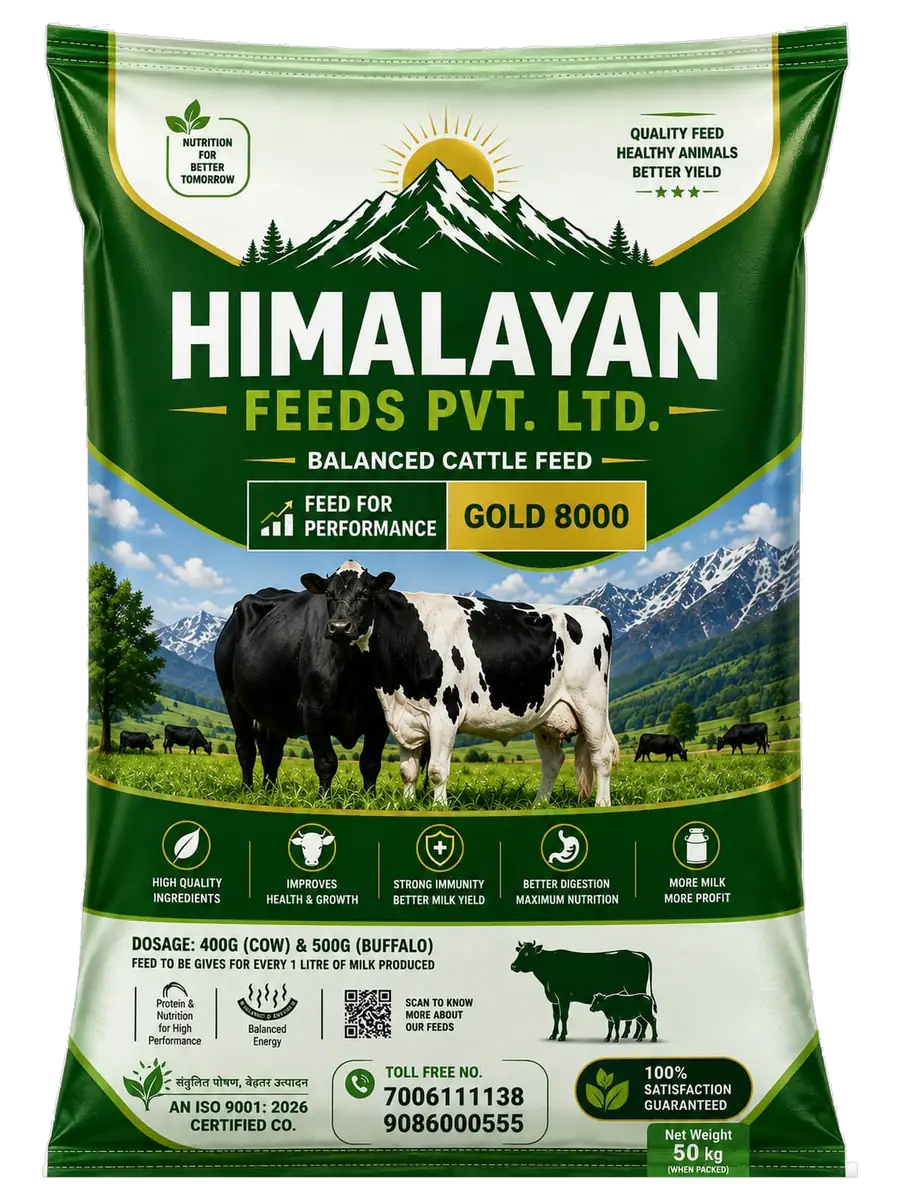
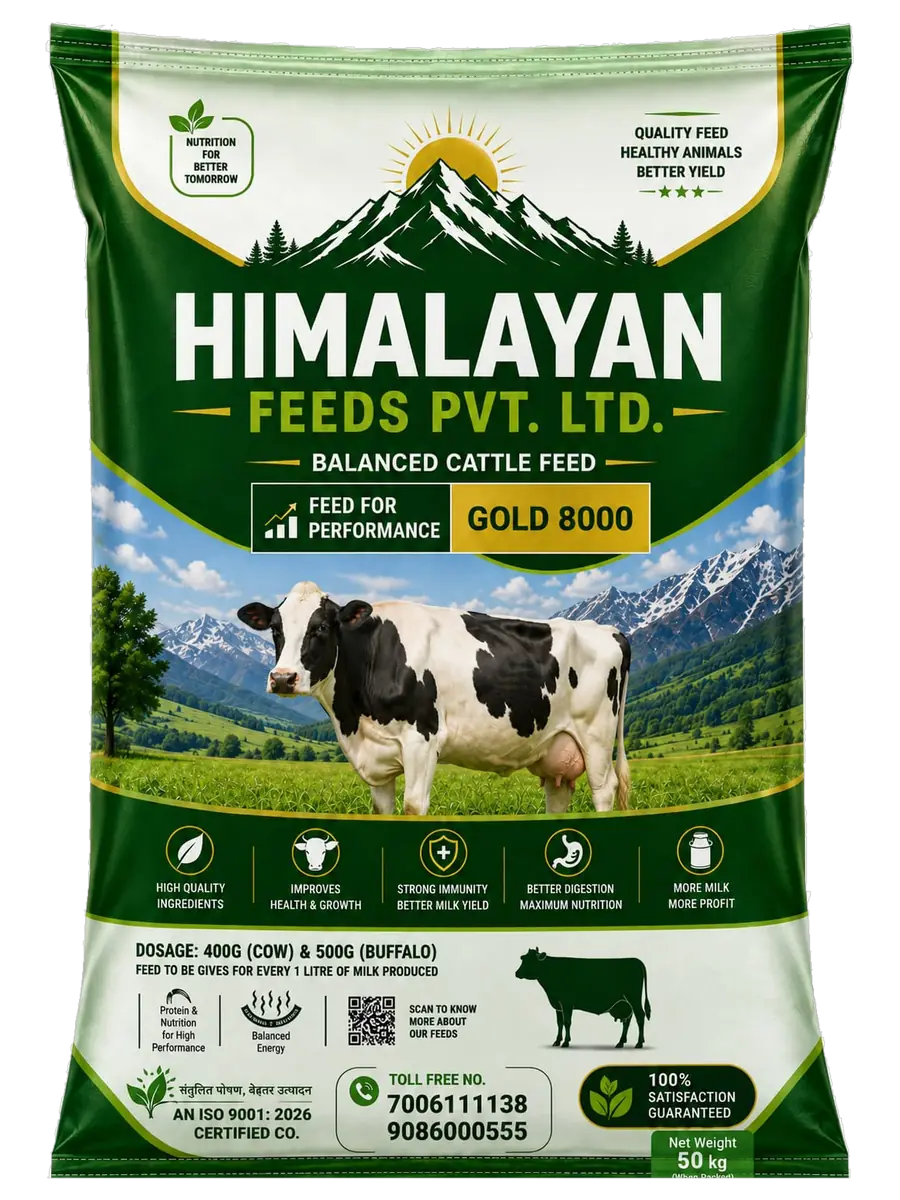
Name products brand-first and swap in the new bag artwork
Products now render as "Himalayan Calf Starter" rather than "Calf Starter".
The prefix is applied at display time by productName(), so the catalogue
rows, the left-hand nav, the About index and the WhatsApp quote subject all
derive from one place. Stored `name` stays the printed name — the sack, not
the screen — so there is still one record of what a dealer is holding.

Artwork: the hF_products drop replaces five cattle pack shots (Calf Starter,
Heifer, Transition Mix, Gold 8000, 10000) and adds two products that were not
in the catalogue at all:

  8000   a distinct bag from GOLD 8000 — same design, different grade badge
  8000+  replaces the orange GOLD 8000+; the live bag is green and prints
         "8000+" with no "GOLD", so the product follows the sack

The superseded orange bag moves to source-assets/superseded/. D. MASH @8000
came with the drop but is unused: it is the older template, so swapping it in
would have walked the range backwards. Calf Grower is now the only cattle bag
still on the old design — no master was supplied.

Heifer's pack size is no longer "On request". The earlier render was cropped
above the net-weight panel; the new photograph shows 50 kg.

Trans-20 Mix is renamed Transition Mix on the client's instruction. It is the
one product not named after its bag — the sack prints "TRANSITION DRY" above a
"TRANS - 20 Mix" badge and we show neither exactly — so the printed name is
kept in the alt text and the deviation is flagged in site.ts.
[…]

Changed region(s): [[0.0311, 0.0, 0.9644, 0.9867]]

diff --git a/lib/site.ts b/lib/site.ts
@@ -202,10 +202,15 @@ export const SOCIALS = [
 
    Cattle is grouped by what the feed DOES, not by species. The client asked
    for a cow/buffalo split; the artwork does not support one. Every bag in the
-   current range is printed "BALANCED CATTLE FEED", pictures a buffalo AND a
-   cow, and is dosed "400G (COW) & 500G (BUFFALO)" — so a buffalo sub-category
-   would hold all seven bags and a cow sub-category would hold none. Buffalo
-   suitability is carried on each product instead, which is what the sack says.
+   range is printed "BALANCED CATTLE FEED" and dosed "400G (COW) & 500G
+   (BUFFALO)" — so a buffalo sub-category would hold every bag and a cow
+   sub-category would hold none. Buffalo suitability is carried on each product
+   instead, which is what the sack says.
+
+   ⚠ The latest artwork (hF_products) drops the buffalo from the photograph —
+   the earlier renders pictured a buffalo beside a cow, these show cows only.
+   The printed dosage line still covers both, so the reasoning above holds, but
+   a farmer buying for buffalo now sees no buffalo on the bag. Worth raising.
 
    The one exception is the fifth band, Sheep & Goat Feed. It is not a cattle
    feed and does not pretend to be — it holds the three D. Mash bags, which are
@@ -249,14 +254,21 @@ export const SOCIALS = [
    Thirteen entries carry a real cut-out photograph of the client's own bag,
    and each one is NAMED AFTER THE BAG. A dealer reads the printed name, so a
    catalogue that calls it something else is a catalogue they cannot order
-   from. `name`, `slug` and the image filename all follow the artwork:
+   from. `name`, `slug` and the image filename all follow the artwork.
+
+   ⚠ `name` is the PRINTED name and is not what the site displays. Products are
+   shown brand-first — "Himalayan Gold 8000" — via `productName()` further down
+   this file. The table below is the sack, not the screen; keep it that way so
+   there is always one record of what a dealer is actually holding.
 
      Calf Starter ....... calf-starter ..... CALF STARTER      50 kg
      Calf Grower ........ calf-grower ...... CALF GROWER       50 kg
-     Heifer ............. heifer ........... HEIFER            — (see below)
-     Trans-20 Mix ....... trans-20-mix ..... TRANS - 20 Mix    50 kg
+     Heifer ............. heifer ........... HEIFER            50 kg
+     Transition Mix ..... transition-mix ... TRANSITION DRY /
+                                            TRANS - 20 Mix    50 kg  ⚠ renamed
+     8000 ............... 8000 ............. 8000              50 kg
      Gold 8000 .......... gold-8000 ........ GOLD 8000         50 kg
-     Gold 8000+ ......... gold-8000-plus ... GOLD 8000+        50 kg
+     8000+ .............. 8000-plus ........ 8000+             50 kg
      10000 .............. 10000 ............ 10000             50 kg
      Pre Starter ........ pre-starter ...... PRE STARTER       25 kg
      Starter ............ starter .......... STARTER           25 kg
@@ -270,8 +282,32 @@ export const SOCIALS = [
    `packSizes` is read off the NET WEIGHT panel of the bag in the photograph.
    It is the client's own artwork, not a guess, but it records the pack that
    was photographed — if a size is also sold in another format, this field
-   needs widening. HEIFER is null because the supplied render is cropped above
-   the net-weight panel, not because the pack is unknown to the client.
+   needs widening.
+
+   ---- THE hF_products DROP ----
+   A later set of eight photographs replaced most of the cattle shots. Five
+   were straight swaps (Calf Starter, Heifer, Transition Mix, Gold 8000, 10000)
+   and HEIFER finally arrived uncropped, which is where its 50 kg came from.
+
+   Two were NOT in the catalogue at all and were added on the client's
+   instruction: 8000, which is a distinct bag from GOLD 8000 — same design,
+   different grade badge — and 8000+, which replaced the orange GOLD 8000+.
+   Note that rename: the live bag is green and prints "8000+" with no "GOLD",
+   so the product was renamed to match the sack rather than the other way
+   round. The orange bag is in source-assets/superseded/.
+
+   The eighth, D. MASH @8000, was left unused: it is the OLDER template — big
+   product name, no wordmark, no "Feed for Performance" badge — so swapping it
+   in would have walked the range backwards. It is in source-assets/hf_products
+   with the rest of the drop.
+
+   ⚠ 8000+ is the only pack shot cut from a photograph of a physical bag on a
+   concrete floor rather than a studio render. A border-seeded flood fill
+   cannot separate it — the floor runs as a tonal gradient and the bag's
+   shadowed green edges sit closer to the floor than the floor's own range — so
+   it was cut by modelling the floor colour per row and then requiring
+   connectivity to the border. If it is ever re-cut, do not reach for the
+   flood fill; it will eat the bag.
 
    ⚠ The new bags changed two pack sizes: CALF STARTER and CALF GROWER are
    printed 50 kg, where the previous generation was 25 kg. Confirm which is
@@ -376,6 +412,22 @@ export type Product = {
   packSizes: string | null;
   image: string;
   imageAlt: string;
+  /** True where `image` is the illustrated placeholder rather than a
+      photograph of the actual sack. The row badges the frame so a visitor
+      reads "we haven't shot this yet" instead of "this is what it looks
+      like".
+
+      ⚠ This is a statement about the PHOTOGRAPH, not about availability —
+      hence the badge wording "Photo coming soon". Do not reuse this flag to
+      mean the product is unreleased; that is `Category.status` at range
+      level, and at product level it would need its own field, because these
+      three may well be selling today. See docs/product-catalogue-spec.md
+      §2.6 — an unconfirmed fact is left visibly open, never guessed at.
+
+      Set it explicitly rather than sniffing for `.svg`: the flag has to
+      survive a placeholder being redrawn as a PNG, and it is the thing the
+      client is actually being asked to resolve. */
+  photoPending?: boolean;
 };
 
 export type Category = {
@@ -523,14 +575,21 @@ export const CATEGORIES: Category[] = [
         highlights: ["Improves health & growth", "High quality ingredients", "Better digestion"],
         suitableFor: ["Maiden heifers", "Replacement stock", "Cow & buffalo herds"],
         form: null,
-        /* The supplied render is cropped above the net-weight panel. */
-        packSizes: null,
+        /* Was null while the only render was cropped above the net-weight
+           panel. The hF_products artwork shows the full bag: 50 kg. */
+        packSizes: "50 kg",
         image: "/images/products/heifer.webp",
         imageAlt: "Himalayan Feeds Heifer — balanced cattle feed bag",
       },
       {
-        slug: "trans-20-mix",
-        name: "Trans-20 Mix",
+        /* ⚠ The one product NOT named after its bag. The sack prints
+           "TRANSITION DRY" as a headline with "TRANS - 20 Mix" in the badge
+           below it; the client asked for "Transition Mix", which is neither
+           string exactly. Their call — they know what a dealer orders it by —
+           but if a dealer ever searches the site for "Trans-20" and finds
+           nothing, this is why. */
+        slug: "transition-mix",
+        name: "Transition Mix",
         group: "transition",
         stage: "Transition",
         summary: "Around calving — the few weeks that decide the whole lactation.",
@@ -540,17 +599,37 @@ export const CATEGORIES: Category[] = [
         suitableFor: ["Dry & freshly calved cows", "Buffalo at calving", "Dairy herds"],
         form: "Mix",
         packSizes: "50 kg",
-        image: "/images/products/trans-20-mix.webp",
-        imageAlt: "Himalayan Feeds Trans-20 Mix — balanced cattle feed, 50 kg bag",
+        image: "/images/products/transition-mix.webp",
+        imageAlt: "Himalayan Feeds Transition Dry, Trans-20 Mix — balanced cattle feed, 50 kg bag",
+      },
+      {
+        /* ⚠ LADDER ORDER IS AN ASSUMPTION. The four milking bags are printed
+           8000, GOLD 8000, 8000+ and 10000, and none of them says where it sits
+           relative to the others. They are listed cheapest-sounding first, with
+           GOLD read as a premium of the 8000 grade. Confirm the real order — a
+           dealer selling "the next one up" off this page needs it right. */
+        slug: "8000",
+        name: "8000",
+        group: "milking",
+        stage: "In milk",
+        summary: "The everyday milking ration — where the ladder starts.",
+        description:
+          "The working feed for a herd in steady production, fed against the milk actually in the churn: the bag sets the rate at 400 g per litre for a cow and 500 g for a buffalo. It is the grade most herds sit on for most of the lactation, and the base the rest of the range is measured from.",
+        highlights: ["High quality ingredients", "Better digestion", "More milk, more profit"],
+        suitableFor: ["Dairy cows in milk", "Buffalo in milk", "Mixed herds"],
+        form: null,
+        packSizes: "50 kg",
+        image: "/images/products/8000.webp",
+        imageAlt: "Himalayan Feeds 8000 — balanced cattle feed, 50 kg bag",
       },
       {
         slug: "gold-8000",
         name: "Gold 8000",
         group: "milking",
         stage: "In milk",
-        summary: "The everyday milking ration — where the ladder starts.",
+        summary: "The Gold grade, at the same feeding rate.",
         description:
-          "The working feed for a herd in steady production, fed against the milk actually in the churn: the bag sets the rate at 400 g per litre for a cow and 500 g for a buffalo. It is the grade most herds sit on for most of the lactation, and the one the two above it are measured against.",
+          "Fed on the same measure as 8000 — 400 g per litre for a cow, 500 g for a buffalo — for the same stage of the lactation. What separates the two is the formulation rather than the feeding, so ask us which suits your herd before you switch between them.",
         highlights: ["High quality ingredients", "More milk, more profit", "Better digestion"],
         suitableFor: ["Dairy cows in milk", "Buffalo in milk", "Mixed herds"],
         form: null,
@@ -559,19 +638,19 @@ export const CATEGORIES: Category[] = [
         imageAlt: "Himalayan Feeds Gold 8000 — balanced cattle feed, 50 kg bag",
       },
       {
-        slug: "gold-8000-plus",
-        name: "Gold 8000+",
+        slug: "8000-plus",
+        name: "8000+",
         group: "milking",
         stage: "Higher yield",
         summary: "One step up — for the animals pulling ahead of the herd.",
         description:
-          "Most herds have a group doing noticeably more than the rest, and feeding them the same grade as everyone else quietly costs you the difference. The step up from Gold 8000, for cows and buffalo whose output has moved beyond what the base grade is built to carry.",
+          "Most herds have a group doing noticeably more than the rest, and feeding them the same grade as everyone else quietly costs you the difference. The step up for cows and buffalo whose output has moved beyond what the base grade is built to carry.",
         highlights: ["Strong immunity, better milk yield", "More milk, more profit", "High quality ingredients"],
         suitableFor: ["Higher-yielding cows", "Higher-yielding buffalo"],
         form: null,
         packSizes: "50 kg",
-        image: "/images/products/gold-8000-plus.webp",
-        imageAlt: "Himalayan Feeds Gold 8000+ — balanced cattle feed, 50 kg bag",
+        image: "/images/products/8000-plus.webp",
+        imageAlt: "Himalayan Feeds 8000+ — balanced cattle feed, 50 kg bag",
       },
       {
         slug: "10000",
@@ -601,7 +680,9 @@ export const CATEGORIES: Category[] = [
         form: "Pellet or mash",
         packSizes: null,
         image: "/images/products/cattle-pellets-and-mash.svg",
-        imageAlt: "Cattle Feed Pellets and Mash pack",
+        imageAlt:
+          "Illustrated placeholder — no pack photograph for Cattle Feed Pellets and Mash yet",
+        photoPending: true,
       },
       {
         slug: "cattle-mineral-supplements",
@@ -616,7 +697,9 @@ export const CATEGORIES: Category[] = [
         form: null,
         packSizes: null,
         image: "/images/products/cattle-mineral-supplements.svg",
-        imageAlt: "Cattle mineral and nutritional supplements pack",
+        imageAlt:
+          "Illustrated placeholder — no pack photograph for Mineral and Nutritional Supplements yet",
+        photoPending: true,
       },
       {
         slug: "d-mash",
@@ -771,7 +854,9 @@ export const CATEGORIES: Category[] = [
         form: null,
         packSizes: null,
         image: "/images/products/poultry-nutritional-products.svg",
-        imageAlt: "Poultry nutritional products pack",
+        imageAlt:
+          "Illustrated placeholder — no pack photograph for Poultry Nutritional Products yet",
+        photoPending: true,
       },
     ],
   },
@@ -832,6 +917,24 @@ export const CATALOGUE_HEADER = {
 
 export const getCategory = (slug: string) =>
   CATEGORIES.find((c) => c.slug === slug);
+
+/* ---------------- Display name ----------------
+   Every product is shown brand-first — "Himalayan D. Mash", not "D. Mash".
+
+   The prefix is applied HERE rather than baked into `Product.name`, and that
+   distinction is deliberate. `name` records what is printed on the sack, which
+   is the rule the whole catalogue is built on and what the naming table at the
+   top of this file documents; a dealer reads the bag, and the bag says
+   "GOLD 8000". Editing the stored names to "Himalayan Gold 8000" would quietly
+   make that table false and leave nothing recording the printed name.
+
+   So the sack keeps its name, the site adds the brand, and dropping or changing
+   the prefix later is one line here instead of eighteen edits.
+
+   `BRAND.name` is the short form ("Himalayan"); BRAND.full would read
+   "Himalayan Feeds D. Mash", which doubles the word on a bag already headed
+   HIMALAYAN FEEDS PVT. LTD. */
+export const productName = (p: Product) => `${BRAND.name} ${p.name}`;
 
 /* ---------------- Products, in their sub-category bands ----------------
    The one place grouping is resolved. Everything that lists a range's products

diff --git a/components/catalogue/ProductRow.tsx b/components/catalogue/ProductRow.tsx
@@ -1,11 +1,11 @@
-import { BRAND, type Product } from "@/lib/site";
+import { BRAND, productName, type Product } from "@/lib/site";
 import { ACCENT, type AccentKey } from "./accents";
 
 /* Builds a structured RFQ rather than a bare "I'm interested" — the reply
    is only useful if the enquiry already carries quantity and location. */
 function quoteHref(product: Product, categoryName: string) {
   const body = [
-    `Quote request — ${product.name}`,
+    `Quote request — ${productName(product)}`,
     `Range: ${categoryName}`,
     "",
     "Quantity required:",
@@ -97,9 +97,24 @@ export default function ProductRow({
             aria-hidden
             className="pointer-events-none absolute bottom-[6%] left-1/2 h-2.5 w-[44%] -translate-x-1/2 rounded-[50%] bg-ink/25 blur-md transition-all duration-700 ease-out group-hover:w-[54%] group-hover:bg-ink/18 group-hover:blur-lg"
           />
-          {/* eslint-disable-next-line @next/next/no-img-element -- five ranges
-              still use SVG placeholders, and next/image refuses SVG without
-              dangerouslyAllowSVG. Swap to <Image> once all twelve are photos. */}
+          {/* Placeholder badge. Three products have no bag to photograph, so
+              the frame shows an illustrated icon; unlabelled, that reads as a
+              broken image rather than a deliberate gap.
+
+              It says "Photo" on purpose. A bare "Coming soon" over a product
+              frame is a statement about STOCK, and nobody has told us these
+              three are unavailable — they are on the client's own product
+              list. Naming the photograph is the only version of this badge
+              that is certainly true. */}
+          {product.photoPending && (
+            <span className="absolute left-2.5 top-2.5 z-10 rounded-full border border-ink/10 bg-white/85 px-2 py-0.5 text-[9.5px] font-bold uppercase tracking-[0.1em] text-ink-soft/65 shadow-soft backdrop-blur-sm">
+              Photo coming soon
+            </span>
+          )}
+          {/* eslint-disable-next-line @next/next/no-img-element -- the three
+              products above still use SVG placeholders, and next/image refuses
+              SVG without dangerouslyAllowSVG. Swap to <Image> once every
+              product is a photograph. */}
           <img
             src={product.image}
             alt={product.imageAlt}
@@ -127,7 +142,7 @@ export default function ProductRow({
                 </span>
               </div>
               <Heading className="mt-2.5 font-display font-700 text-xl leading-tight text-ink sm:text-[22px]">
-                {product.name}
+                {productName(product)}
               </Heading>
               <span
                 className={`mt-2.5 block h-[3px] w-9 rounded-full origin-left transition-transform duration-500 ease-out group-hover:scale-x-[2] ${a.rule}`}

diff --git a/app/about/page.tsx b/app/about/page.tsx
@@ -5,7 +5,7 @@ import BrandLockup from "@/components/BrandLockup";
 import Leadership from "@/components/Leadership";
 import CountUp from "@/components/CountUp";
 import Reveal from "@/components/Reveal";
-import { BRAND, COMPANY, CATEGORIES, AVAILABLE_CATEGORIES } from "@/lib/site";
+import { BRAND, COMPANY, CATEGORIES, AVAILABLE_CATEGORIES, productName } from "@/lib/site";
 
 export const metadata = {
   title: "About Us — Himalayan Feeds Pvt. Ltd.",
@@ -179,7 +179,7 @@ export default function AboutPage() {
                         </div>
                         {c.products.length > 0 && (
                           <p className="mt-1.5 text-[12.5px] leading-relaxed text-ink-soft/70">
-                            {c.products.map((p) => p.name).join(" · ")}
+                            {c.products.map(productName).join(" · ")}
                           </p>
                         )}
                       </li>

diff --git a/components/catalogue/CategoryNav.tsx b/components/catalogue/CategoryNav.tsx
@@ -1,5 +1,5 @@
 import Link from "next/link";
-import { CATEGORIES, BRAND, groupedProducts } from "@/lib/site";
+import { CATEGORIES, BRAND, groupedProducts, productName } from "@/lib/site";
 import { ACCENT } from "./accents";
 
 /* ---------------- Left panel — categories and their sub-categories ----------------
@@ -87,7 +87,7 @@ export default function CategoryNav({ activeSlug }: { activeSlug: string }) {
                               href={`#${product.slug}`}
                               className="block rounded-md py-1.5 text-[13px] leading-snug text-ink-soft/80 transition-colors duration-200 hover:text-ink"
                             >
-                              {product.name}
+                              {productName(product)}
                             </a>
                           </li>
                         ))}

diff --git a/components/catalogue/RangeBlocks.tsx b/components/catalogue/RangeBlocks.tsx
@@ -1,5 +1,5 @@
 import Link from "next/link";
-import { BRAND, CATEGORIES, type Category } from "@/lib/site";
+import { BRAND, CATEGORIES, productName, type Category } from "@/lib/site";
 import CountUp from "../CountUp";
 import { ACCENT } from "./accents";
 
@@ -105,7 +105,7 @@ export function CoverageRail({ category }: { category: Category }) {
 export function QuoteBlock({ category }: { category: Category }) {
   const a = ACCENT[category.accent];
   const soon = category.status === "coming-soon";
-  const names = category.products.map((p) => `• ${p.name}`).join("\n");
+  const names = category.products.map((p) => `• ${productName(p)}`).join("\n");
 
   /* A coming-soon range cannot be quoted, so asking for quantity and pricing
      would be a dead end. It collects an interest registration instead. */
